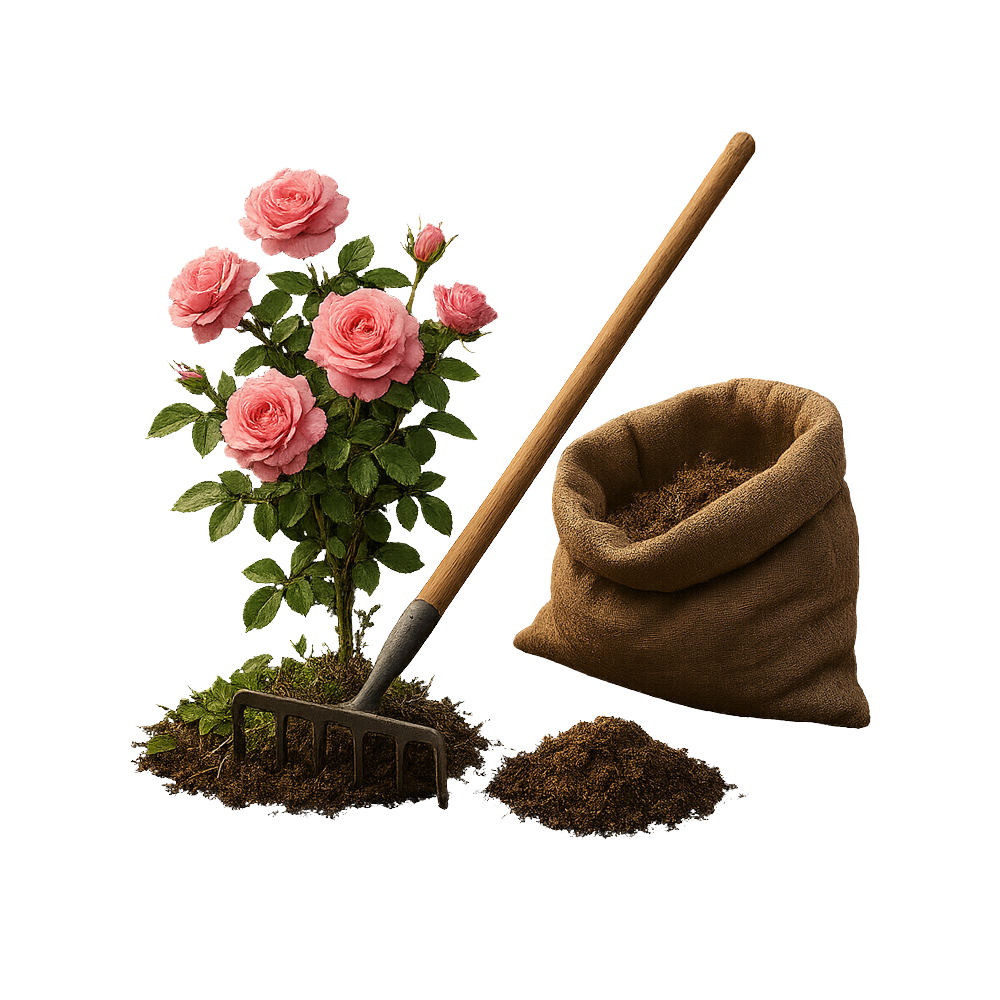
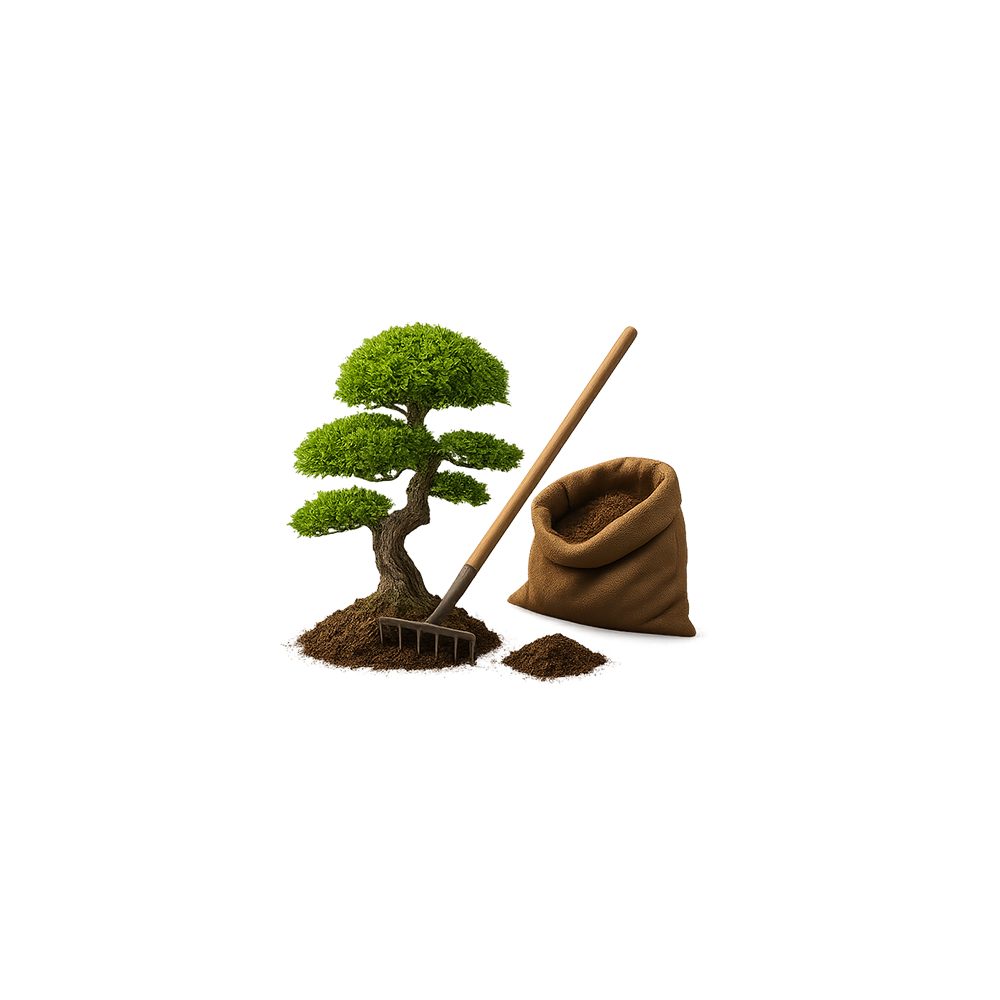
Services Update'

Changed region(s): [[0.124, 0.124, 0.868, 0.837]]

diff --git a/components/Services.tsx b/components/Services.tsx
@@ -143,7 +143,7 @@ const services = [
           "Wasserflächen lassen sich wunderbar mit Stein, Holz oder Licht kombinieren und verwandeln jeden Garten in einen Ort der Entspannung. Garten- und Landschaftsbau Stroe plant und realisiert Ihre Wasseranlage von der Idee bis zur fertigen Umsetzung zuverlässig, kompetent und mit hohem gestalterischen Anspruch. In der Region rund um München sind wir Ihr Ansprechpartner für Teich- und Wasseranlagen mit Qualität und Charakter."
       }
     ],
-    image: "/Pictures/Hintergrund-5.webp",
+    image: "/Pictures/TEICH-und_WASSERANLAGEN.webp",
     icon: "/Pictures/Wasseranlagen.webp"
   },
   {
@@ -170,7 +170,7 @@ const services = [
           "In der gesamten Region rund um München ist Garten- und Landschaftsbau Stroe Ihr verlässlicher Partner für stilvollen Holz- und Zaunbau. Vertrauen Sie auf unsere Erfahrung, unser handwerkliches Können und unser Gespür für harmonische Gartengestaltung. Lassen Sie uns gemeinsam Ihre Außenanlage funktional und zugleich wohnlich gestalten – mit Holz in seiner schönsten Form."
       }
     ],
-    image: "/Pictures/Hintergrund-6.webp",
+    image: "/Pictures/HOLZ-UND_ZAUNBAU.webp",
     icon: "/Pictures/Zaunbau.webp"
   },
   {
@@ -197,7 +197,7 @@ const services = [
           "Jeder Stein wird sorgfältig platziert, jede Mauerlinie genau ausgerichtet – so entstehen langlebige Bauwerke, die Wind und Wetter standhalten und über viele Jahre Freude bereiten. In der Region rund um München steht Garten- und Landschaftsbau Stroe für hochwertige Mauer- und Steinarbeiten mit Stil und Substanz. Lassen Sie uns gemeinsam die Basis für Ihre neue Gartenstruktur legen – Stein für Stein, mit Herz und Hand."
       }
     ],
-    image: "/Pictures/Hintergrund-7.webp",
+    image: "/Pictures/Mauer_und_Steinarbeiten.webp",
     icon: "/Pictures/Mauer.webp"
   },
   {
@@ -224,7 +224,7 @@ const services = [
           "Mit modernem Gerät, geschultem Blick und ökologischer Verantwortung sorgen wir für gesunde Pflanzen, gepflegte Rasenflächen und ein harmonisches Gesamtbild. In der Region rund um München ist Garten- und Landschaftsbau Stroe Ihr zuverlässiger Partner für nachhaltige Gartenpflege. Vertrauen Sie auf Erfahrung, Gründlichkeit und das Gespür für den richtigen Schnitt zur richtigen Zeit."
       }
     ],
-    image: "/Pictures/Hintergrund-8.webp",
+    image: "/Pictures/GARTENPFLEGE_UND_INSTANTHALTUNG.webp",
     icon: "/Pictures/Gartenpflege.webp"
   },
   {
@@ -251,7 +251,7 @@ const services = [
           "Unser Team überwacht kontinuierlich Wetterdaten und reagiert sofort bei Bedarf. Wir garantieren maximale Sicherheit für Bewohner, Kunden, Mitarbeiter und Passanten. Garten- und Landschaftsbau Stroe steht für Verantwortung, Sorgfalt und professionelle Abläufe – damit Sie den Winter entspannt genießen können."
       }
     ],
-    image: "/Pictures/Hintergrund-9.webp",
+    image: "/Pictures/Winterdienst_Radlader.webp",
     icon: "/Pictures/Winterdienst.webp"
   },
   {
@@ -278,7 +278,7 @@ const services = [
           "Unsere Leistungen umfassen unter anderem die Kontrolle von Beleuchtung und Haustechnik, Mülltonnenservice, Reinigungsarbeiten im Außenbereich, Kleinreparaturen, saisonale Pflege sowie das Monitoring von Sicherheitsaspekten. Jeder Einsatz wird dokumentiert, unsere Ansprechpartner sind jederzeit erreichbar und passen Einsätze flexibel an. Mit Garten- und Landschaftsbau Stroe haben Sie einen Hausmeisterdienst an Ihrer Seite, der Ihre Immobilie rund um die Uhr im Blick behält – kompetent, diskret und engagiert."
       }
     ],
-    image: "/Pictures/Hintergrund-10.webp",
+    image: "/Pictures/Hausmeister.webp",
     icon: "/Pictures/Hausmeisterdienst.webp"
   },
   {
@@ -305,9 +305,36 @@ const services = [
           "Ob unterirdisches Tropfsystem, Versenkregner oder Kombinationen – wir planen und installieren alles fachgerecht und wartungsarm. Unser Ziel ist es, Technik so einzusetzen, dass sie Ihr Leben erleichtert und Ihre Außenanlage rund um die Uhr gepflegt und einladend bleibt. Vertrauen Sie auf unsere Kompetenz, Qualität und Liebe zum Detail."
       }
     ],
-    image: "/Pictures/Hintergrund-11.webp",
+    image: "/Pictures/BELEUCHTUNG_UND_BEWÄSSERUNG.webp",
     icon: "/Pictures/Beleuchtung.webp"
-  }
+  },
+  {
+  title: "ABRISSARBEITEN",
+  sections: [
+    {
+      heading: "Schnell, sicher und zuverlässig",
+      content:
+        "Abrissarbeiten erfordern Fachwissen, Erfahrung und die richtige Technik. Wir übernehmen den Abbruch von Gebäuden, Mauern und Außenanlagen professionell, sicher und effizient – stets mit Blick auf Ihre individuellen Anforderungen."
+    },
+    {
+      heading: "Umweltgerechte Entsorgung",
+      content:
+        "Bei allen Abrissarbeiten achten wir auf eine fachgerechte Sortierung und Entsorgung der Materialien. So stellen wir sicher, dass wiederverwertbare Stoffe in den Kreislauf zurückgeführt und Schadstoffe fachgerecht entsorgt werden."
+    },
+    {
+      heading: "Moderner Maschinenpark",
+      content:
+        "Mit leistungsstarken Geräten und modernen Maschinen sorgen wir für einen reibungslosen Ablauf – vom Rückbau kleinerer Objekte bis hin zu komplexen Abrissprojekten. Effizienz und Sicherheit stehen dabei an erster Stelle."
+    },
+    {
+      heading: "Alles aus einer Hand",
+      content:
+        "Von der Planung über den Abbruch bis zur Entsorgung bieten wir Ihnen ein komplettes Leistungspaket. Vertrauen Sie auf unsere Erfahrung und Kompetenz, wenn es um fachgerechte Abrissarbeiten geht."
+    }
+  ],
+  image: "/Pictures/Abrissarbeiten.webp",
+  icon: "/Pictures/Abriss.webp"
+}
 ];
 
 export default function Services() {
